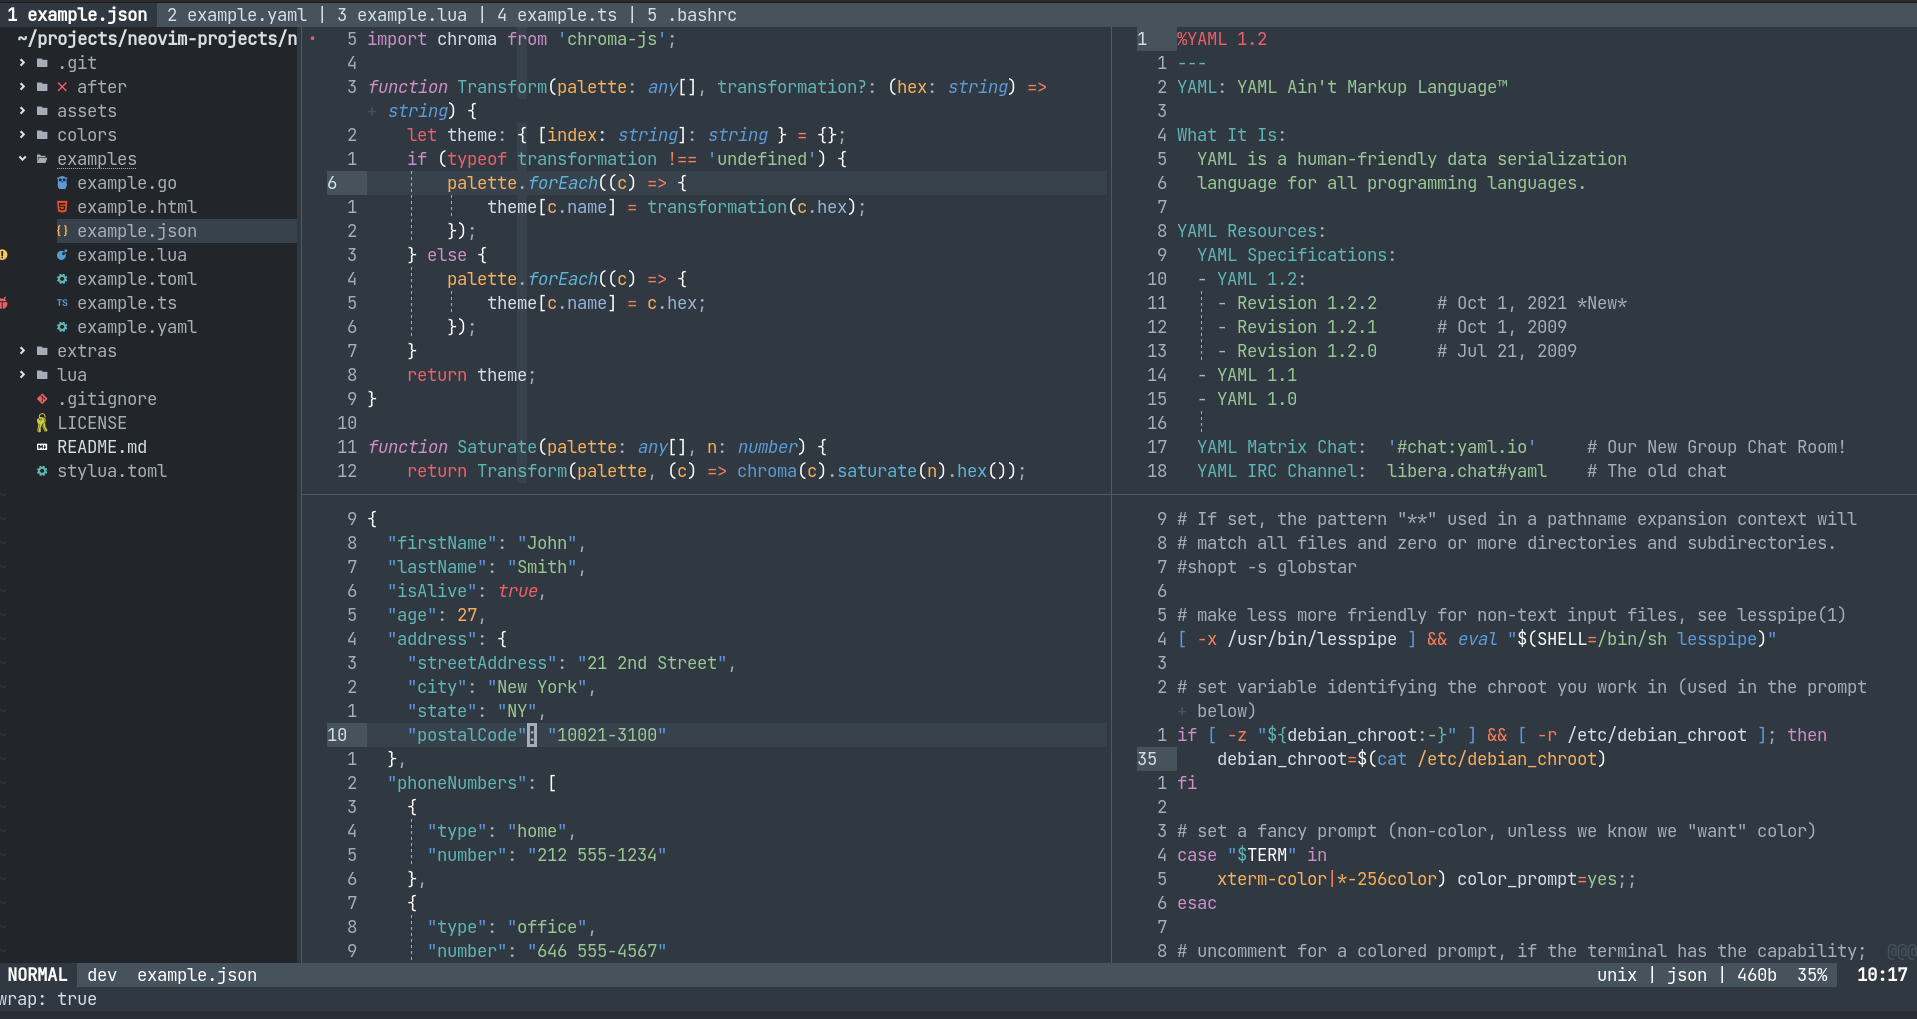
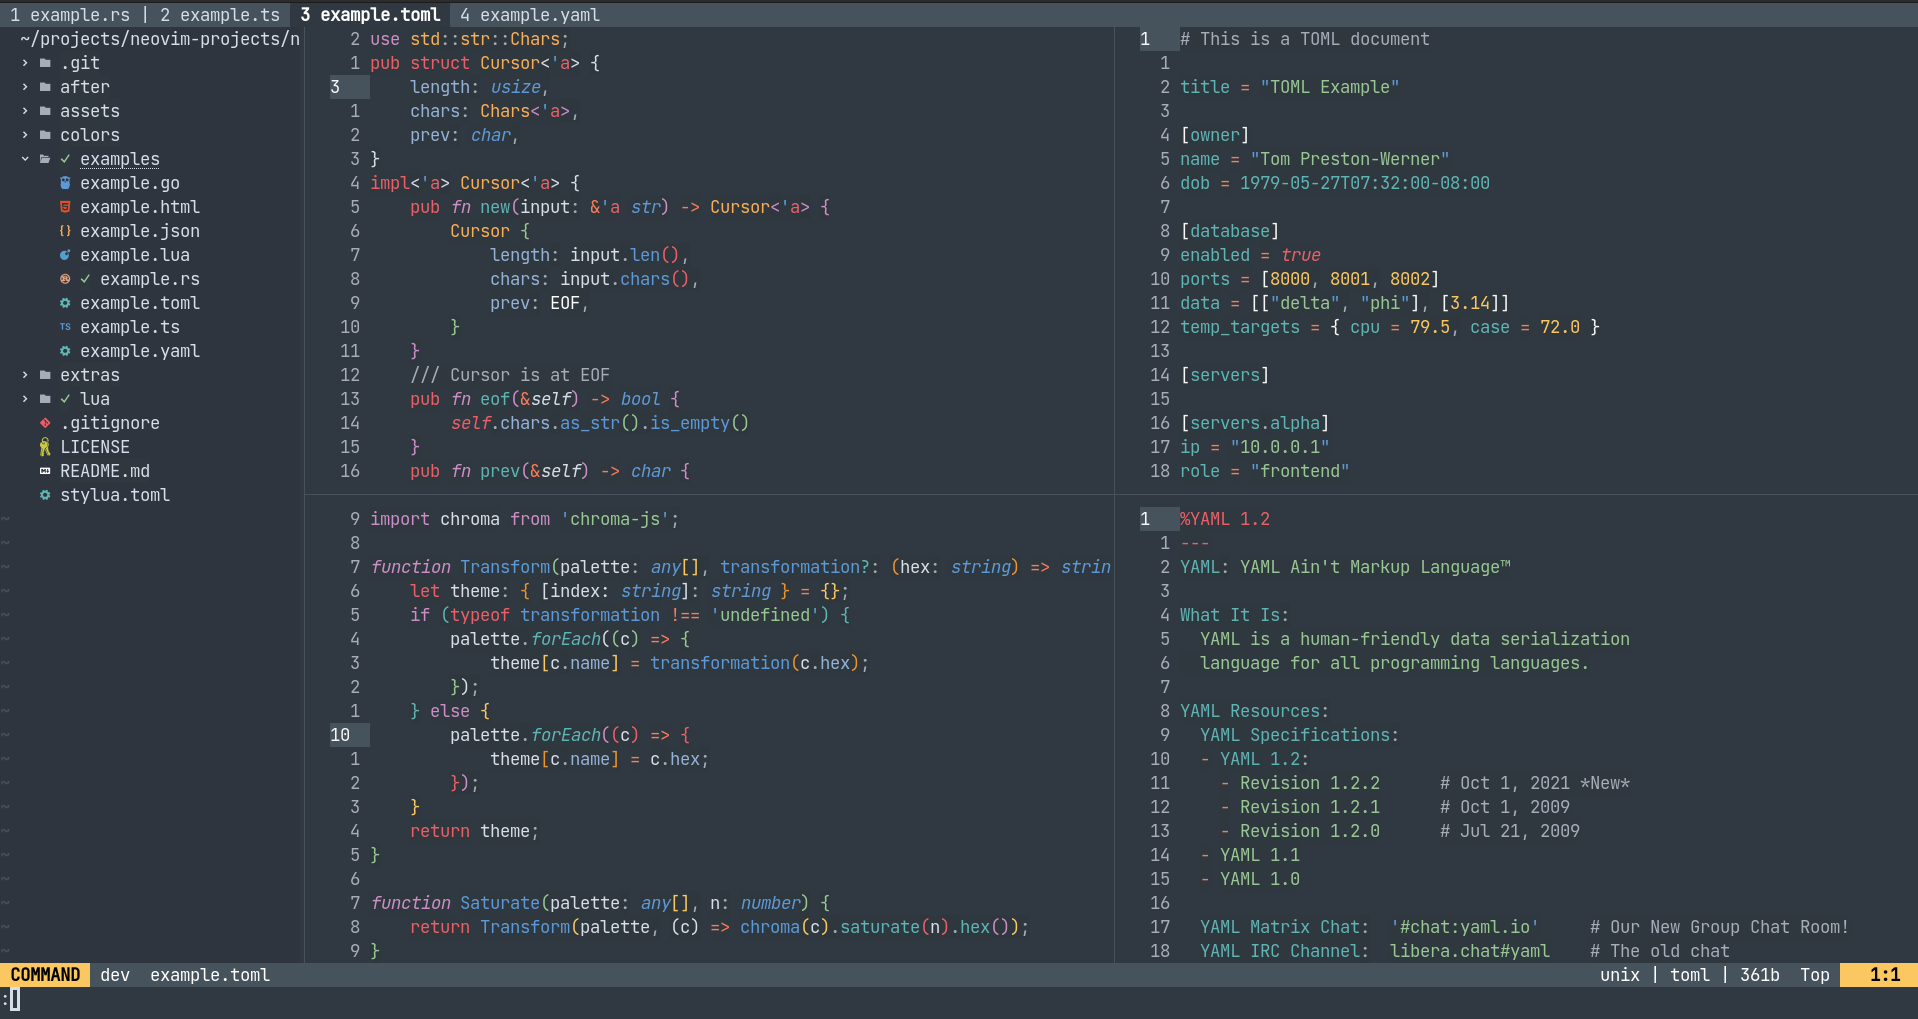
docs: update screenshots

diff --git a/examples/example.rs b/examples/example.rs
@@ -1,0 +1,45 @@
+use std::str::Chars;
+pub struct Cursor<'a> {
+    length: usize,
+    chars: Chars<'a>,
+    prev: char,
+}
+impl<'a> Cursor<'a> {
+    pub fn new(input: &'a str) -> Cursor<'a> {
+        Cursor {
+            length: input.len(),
+            chars: input.chars(),
+            prev: EOF,
+        }
+    }
+    pub fn eof(&self) -> bool {
+        self.chars.as_str().is_empty()
+    }
+    pub fn prev(&self) -> char {
+        self.prev
+    }
+    pub fn first(&self) -> char {
+        self.chars.clone().next().unwrap_or(EOF)
+    }
+    pub fn second(&self) -> char {
+        let mut iter = self.chars.clone();
+        iter.next();
+        iter.next().unwrap_or(EOF)
+    }
+    pub fn pos_within_token(&self) -> u32 {
+        (self.length - self.chars.as_str().len()) as u32
+    }
+    pub fn reset_pos_within_token(&mut self) {
+        self.length = self.chars.as_str().len();
+    }
+    pub fn bump(&mut self) -> Option<char> {
+        let ch = self.chars.next()?;
+        Some(ch)
+    }
+    pub fn eat_while(&mut self, mut predicate: impl FnMut(char) -> bool) {
+        while predicate(self.first()) && !self.eof() {
+            self.bump();
+        }
+    }
+}
+
